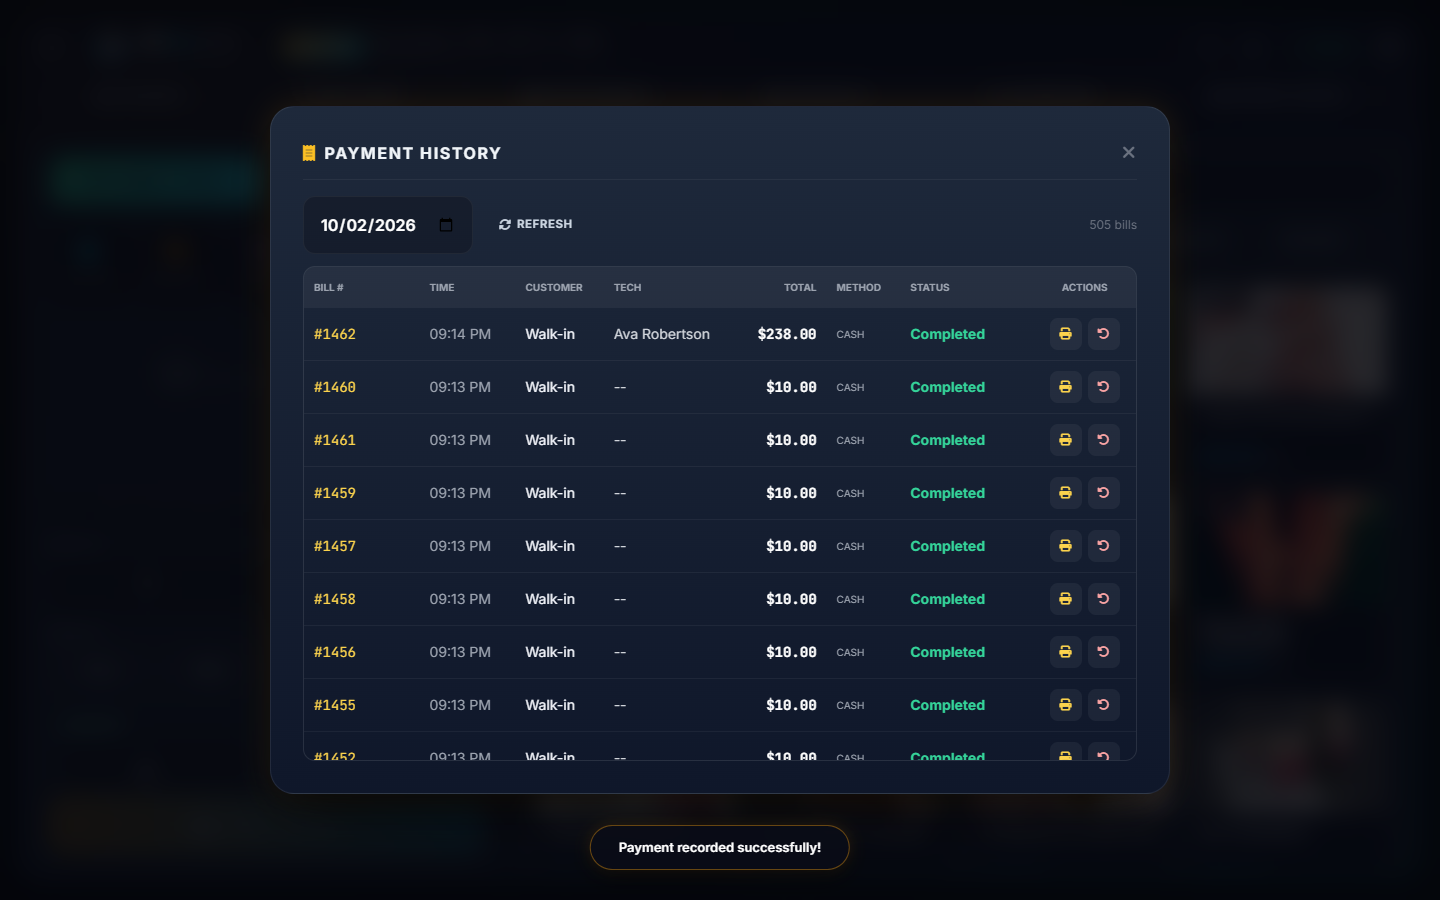
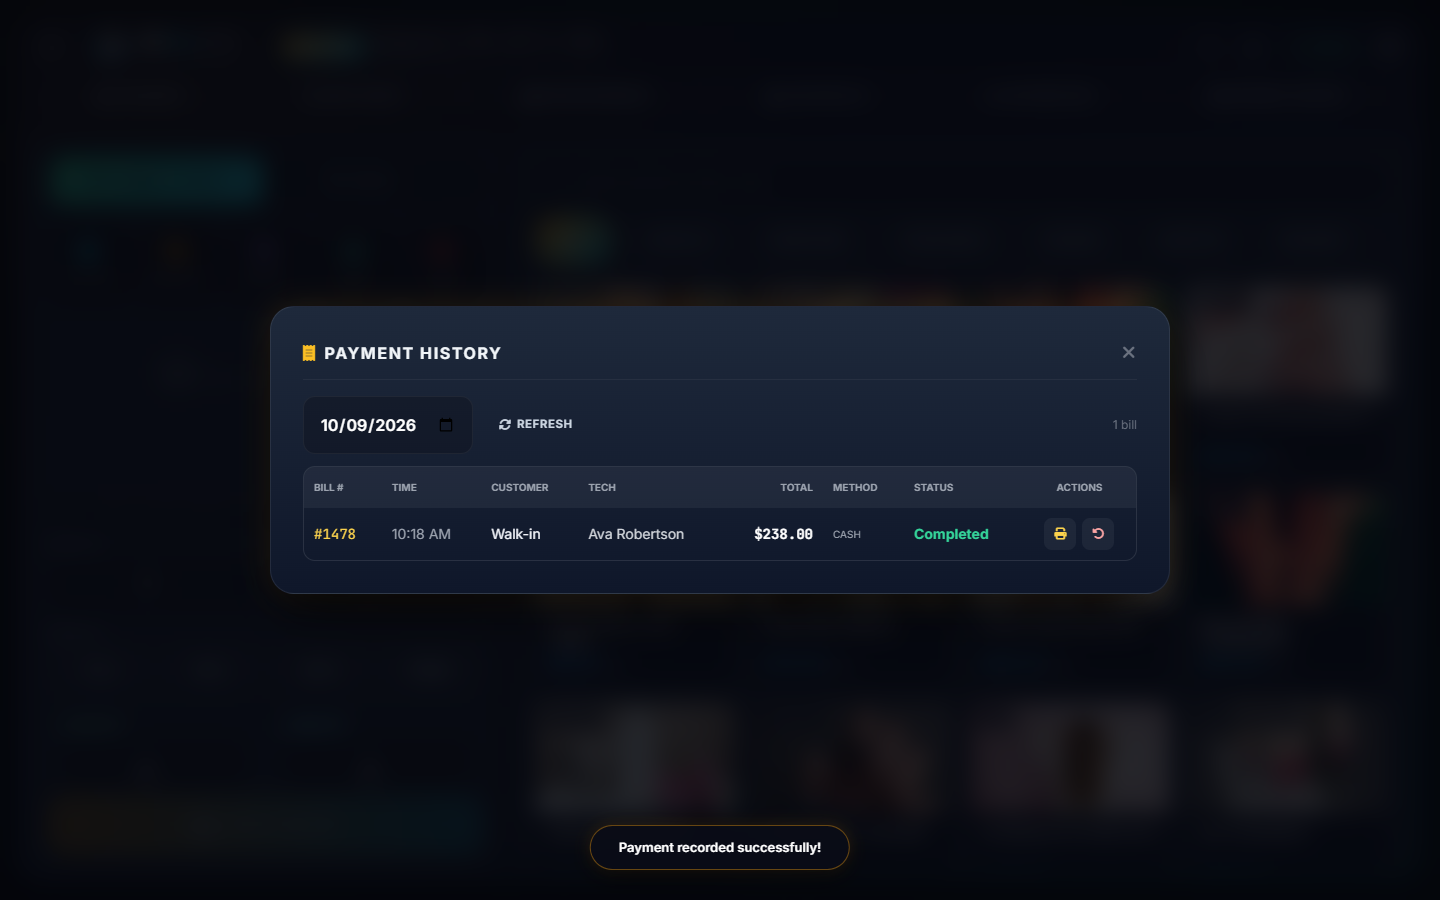
chore(audit): refresh Nails master audit report after desktop offline change

diff --git a/audit-results/nail_master_audit_report.md b/audit-results/nail_master_audit_report.md
@@ -1,21 +1,21 @@
 # Nail Industry Master Audit Report
 
-Generated: 2026-10-02T19:14:25.779Z
+Generated: 2026-10-09T08:19:16.842Z
 
 **10 PASS · 0 WARN · 0 FAIL** (10 test clusters)
 
 | # | Chức năng | Trạng thái | Thời gian | Ghi chú |
 |---|---|---|---|---|
-| 1 | 1. Khởi tạo & Giao diện POS Nails | PASS | 4112ms | console_errors=0, network_5xx=0, services=18, technicians=6, search_placeholder="Search services, techs, code..." |
-| 2 | 2. Chọn Dịch Vụ & Modifier/Custom Item | PASS | 2379ms | Đã thêm: Acrylic Full Set (Ombre/Design), Callus Treatment & Heel Scrub + 1 Custom Item ($15). Tổng 3 dòng trong giỏ. |
-| 3 | 3. Gán Thợ & Quản Lý Vé (Hold/Resume) | PASS | 2038ms | Thợ gán: "Ava Robertson" (NV0053). Badge hàng chờ sau Hold: 1. Giỏ trước Hold=3, sau Resume=3. |
-| 4 | 4. Tính Tiền, Tip & Payment Modal | PASS | 1152ms | Total: "$230.00 AUD" -> "$238.00 AUD" (Tip: +$8.00). Dual-pricing UI toggle tồn tại: true. |
-| 5 | 5. Xác Nhận Thanh Toán & Lưu DB | PASS | 1133ms | HTTP 200, order_id=1462, total_amount=238, receipt hiển thị: "Order #1462" |
-| 6 | 6. Lịch Sử Hóa Đơn & In Lại Bill | PASS | 1955ms | Số dòng lịch sử hôm nay: 505. Đơn #1462 xuất hiện trong danh sách: true. |
-| 7 | 7. Đối Soát Chấm Công & Payroll (US) | PASS | 2504ms | 6 nhân viên hiển thị. Lịch sử "Tính Tua" của thợ vừa gán có dữ liệu mới: true. Snippet: "[NAILS POS] ORDER #1462 — 40.0 02/10/2026 $80.11 Pay: $72.2 \| Tip: $7.91 [NAILS POS] ORDER #1031 — 40.0 02/10/2026 $36.10 Pay: $36.1 \| Tip: $0 [NAILS POS] ORDER #1030 — 40.0 02/10/2026 $36.1" |
-| 8 | 8. Booking Website Công Khai + QR Code | PASS | 6677ms | Business "000b2c16-ab4e-42bd-944a-29c925cad09b" — public page: 18 dịch vụ / 6 thợ. Đặt lịch HTTP 200, appointment id=139, ticket="TICKET-139". Xuất hiện trong /calendar của chủ tiệm: true. Console errors (trang khách): 0. |
-| 9 | 9. Giảm Giá, Thanh Toán Chia Đôi & Hoàn Tiền | PASS | 4954ms | Discount preview: $9.50 (áp dụng: true). Split total=85.5, cash=card=42.75, mismatch=false, order_id=1463. Refund order #1463: true ({"order_status":"partially_refunded","refund_id":1464,"success":true,"techs_clawed_back":[]}). |
-| 10 | 10. Dual Pricing (Cash Price / Card Price) | PASS | 6591ms | UI: cash=$95 card=$97.85 (kỳ vọng $97.85). Order Cash #1465: total=95, hoa hồng=36.1. Order Card #1466: total=97.85, subtotal=95, phụ phí=2.85, hoa hồng=36.1 (phải bằng hoa hồng Cash — chứng minh phụ phí KHÔNG lọt vào hoa hồng thợ). |
+| 1 | 1. Khởi tạo & Giao diện POS Nails | PASS | 5066ms | console_errors=0, network_5xx=0, services=18, technicians=6, search_placeholder="Search services, techs, code..." |
+| 2 | 2. Chọn Dịch Vụ & Modifier/Custom Item | PASS | 2563ms | Đã thêm: Acrylic Full Set (Ombre/Design), Callus Treatment & Heel Scrub + 1 Custom Item ($15). Tổng 3 dòng trong giỏ. |
+| 3 | 3. Gán Thợ & Quản Lý Vé (Hold/Resume) | PASS | 2233ms | Thợ gán: "Ava Robertson" (NV0053). Badge hàng chờ sau Hold: 1. Giỏ trước Hold=3, sau Resume=3. |
+| 4 | 4. Tính Tiền, Tip & Payment Modal | PASS | 1235ms | Total: "$230.00 AUD" -> "$238.00 AUD" (Tip: +$8.00). Dual-pricing UI toggle tồn tại: true. |
+| 5 | 5. Xác Nhận Thanh Toán & Lưu DB | PASS | 1258ms | HTTP 200, order_id=1478, total_amount=238, receipt hiển thị: "Order #1478" |
+| 6 | 6. Lịch Sử Hóa Đơn & In Lại Bill | PASS | 2006ms | Số dòng lịch sử hôm nay: 1. Đơn #1478 xuất hiện trong danh sách: true. |
+| 7 | 7. Đối Soát Chấm Công & Payroll (US) | PASS | 4790ms | 6 nhân viên hiển thị. Lịch sử "Tính Tua" của thợ vừa gán có dữ liệu mới: true. Snippet: "[NAILS POS] ORDER #1478 — 40.0 09/10/2026 $80.11 Pay: $72.2 \| Tip: $7.91 [NAILS POS] ORDER #1467 — 40.0 02/10/2026 $50.95 Pay: $36.1 \| Tip: $14.85 [NAILS POS] ORDER #1466 — 40.0 02/10/2026 $" |
+| 8 | 8. Booking Website Công Khai + QR Code | PASS | 7920ms | Business "000b2c16-ab4e-42bd-944a-29c925cad09b" — public page: 18 dịch vụ / 6 thợ. Đặt lịch HTTP 200, appointment id=143, ticket="TICKET-143". Xuất hiện trong /calendar của chủ tiệm: true. Console errors (trang khách): 0. |
+| 9 | 9. Giảm Giá, Thanh Toán Chia Đôi & Hoàn Tiền | PASS | 5875ms | Discount preview: $9.50 (áp dụng: true). Split total=85.5, cash=card=42.75, mismatch=false, order_id=1479. Refund order #1479: true ({"order_status":"partially_refunded","refund_id":1480,"success":true,"techs_clawed_back":[]}). |
+| 10 | 10. Dual Pricing (Cash Price / Card Price) | PASS | 7396ms | UI: cash=$95 card=$97.85 (kỳ vọng $97.85). Order Cash #1481: total=95, hoa hồng=36.1. Order Card #1482: total=97.85, subtotal=95, phụ phí=2.85, hoa hồng=36.1 (phải bằng hoa hồng Cash — chứng minh phụ phí KHÔNG lọt vào hoa hồng thợ). |
 
 ## Findings (Spec vs. Implementation Gaps)
 - Yêu cầu spec có nhắc "modal modifier: chọn độ dài móng, form móng" — tính năng này KHÔNG tồn tại trong pos_nail.html hiện tại. Chỉ có modal "Add Custom Item" (tên + giá + số lượng tự do), đã test thay thế ở bước này.
